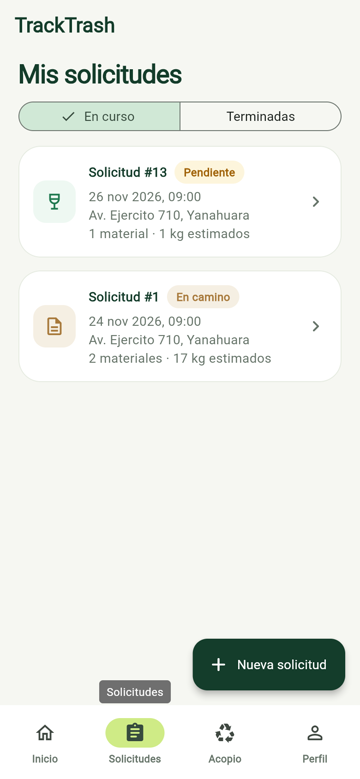
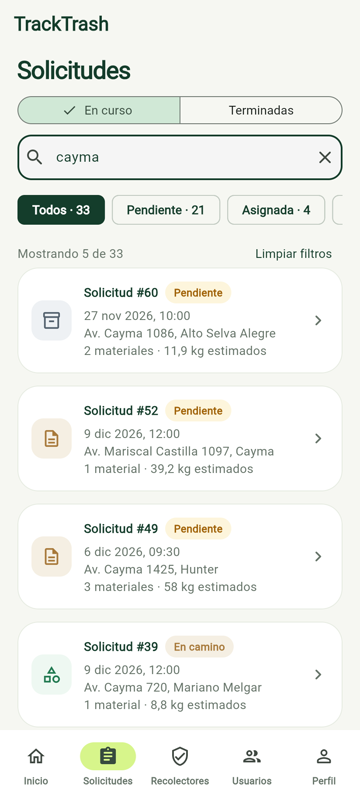
docs: describe admin features, password change, search and filters

diff --git a/README.md b/README.md
@@ -7,7 +7,7 @@
   <img src="https://img.shields.io/badge/Dart-3.11-143d2b?style=for-the-badge&logo=dart&logoColor=d7f58b" alt="Dart 3.11">
   <img src="https://img.shields.io/badge/Riverpod-estado-143d2b?style=for-the-badge" alt="Riverpod">
   <img src="https://img.shields.io/badge/Android-APK-143d2b?style=for-the-badge&logo=android&logoColor=d7f58b" alt="Android">
-  <img src="https://img.shields.io/badge/Pruebas-23-143d2b?style=for-the-badge" alt="23 pruebas">
+  <img src="https://img.shields.io/badge/Pruebas-27-143d2b?style=for-the-badge" alt="27 pruebas">
 </p>
 
 <p align="center">
@@ -40,8 +40,9 @@ kilos recuperados como recolector. Comparte el contrato con la [plataforma web](
 | --- | --- |
 | Hogar y organización | Crear solicitudes (materiales, dirección con GPS opcional, fecha y hora), ver recolectores compatibles, aceptar o rechazar postulaciones, seguir el estado, cancelar y calificar |
 | Recolector | Elegir los materiales que acepta, ver recojos compatibles y postularse, seguir sus postulaciones, iniciar, registrar material recuperado, finalizar o soltar; kilos y calificación propios |
-| Administrador | Indicadores generales (la gestión completa está en la web) |
-| Todos | Inicio de sesión con JWT y sesión persistente, mapa de puntos de acopio, perfil y edición de datos |
+| Administrador | Indicadores, todas las solicitudes, asignar recolector directamente, verificar o rechazar recolectores, activar o desactivar usuarios y editar el catálogo de materiales |
+| Todos | Inicio de sesión con JWT y sesión persistente, mapa de puntos de acopio, perfil, edición de datos y cambio de contraseña |
+| Búsqueda y filtros | Buscador sin distinguir tildes ni mayúsculas y chips con contador por estado, distrito, rol, verificación y categoría en cada lista |
 
 Experiencia: banner animado, mascota flotante, entrada escalonada de tarjetas, tirar para actualizar, estados de carga,
 vacío y error, y respeto a la opción "reducir movimiento" del sistema.
